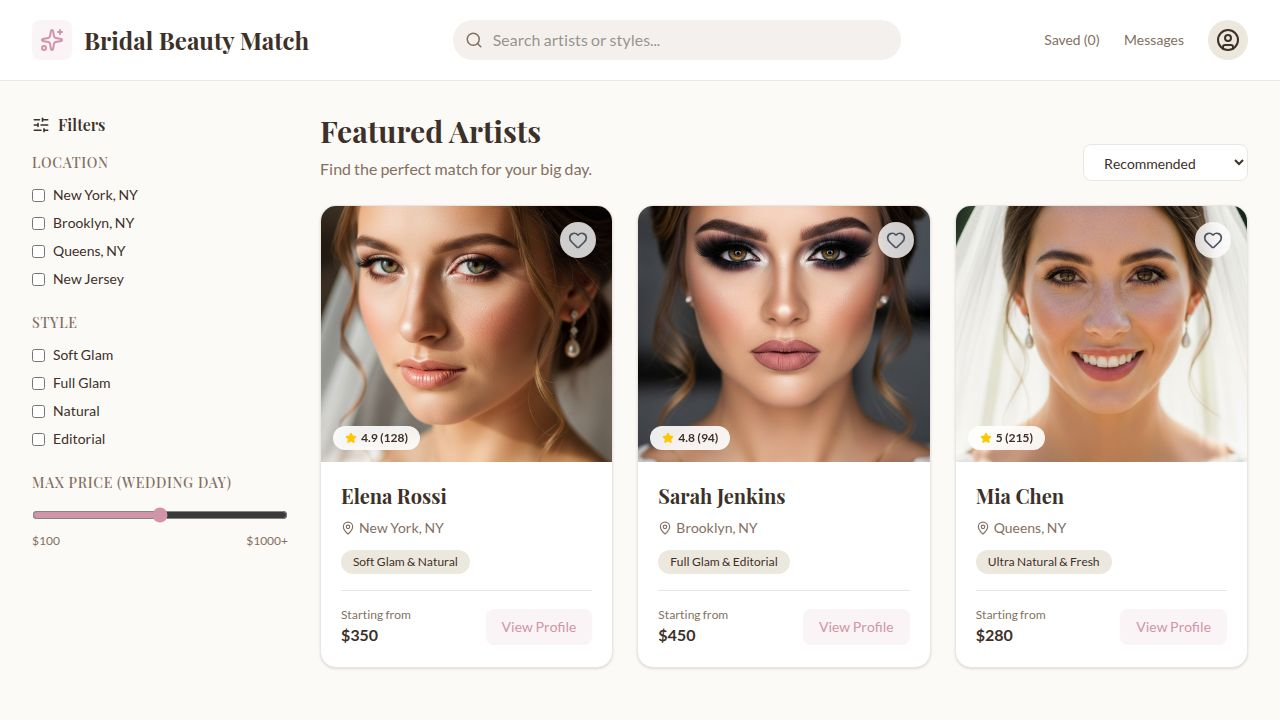
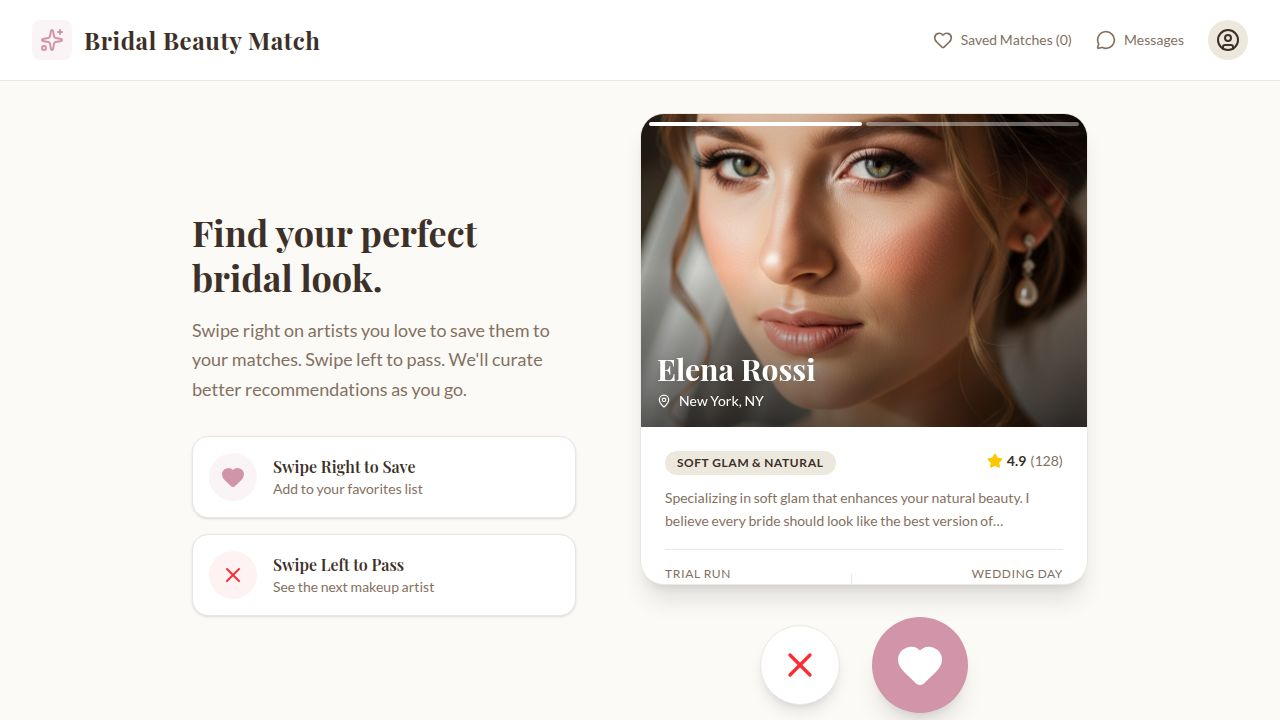
Update the app to allow swiping through artist profiles
Integrates a Tinder-style swipeable card interface into the desktop web app layout, allowing users to like or pass on artist profiles.

Replit-Commit-Author: Agent
Replit-Commit-Session-Id: 651a1fe6-17d0-4573-ae3e-e62761d08d62
Replit-Commit-Checkpoint-Type: full_checkpoint
Replit-Commit-Event-Id: e929e510-dd99-4e65-adc7-e96400682904
Replit-Commit-Screenshot-Url: https://storage.googleapis.com/screenshot-production-us-central1/077b519a-c17e-4a70-aa4a-50c78cc8e68b/651a1fe6-17d0-4573-ae3e-e62761d08d62/WXRn37N
Replit-Helium-Checkpoint-Created: true

diff --git a/client/src/pages/Home.tsx b/client/src/pages/Home.tsx
@@ -1,24 +1,24 @@
 import React, { useState } from 'react';
-import { Sparkles, MapPin, Star, Heart, Search, SlidersHorizontal, UserCircle, Calendar } from 'lucide-react';
-import { artists, Artist } from '../data/artists';
-import { AnimatePresence, motion } from 'framer-motion';
+import { AnimatePresence } from 'framer-motion';
+import { Sparkles, UserCircle, Settings2, X, Heart, MessageCircle } from 'lucide-react';
+import { SwipeCard } from '../components/SwipeCard';
+import { artists } from '../data/artists';
 
 export default function Home() {
-  const [selectedArtist, setSelectedArtist] = useState<Artist | null>(null);
+  const [deck, setDeck] = useState(artists);
+  const [matches, setMatches] = useState<string[]>([]);
   const [savedArtists, setSavedArtists] = useState<string[]>([]);
-  const [searchQuery, setSearchQuery] = useState('');
 
-  const toggleSave = (e: React.MouseEvent, id: string) => {
-    e.stopPropagation();
-    setSavedArtists(prev => 
-      prev.includes(id) ? prev.filter(a => a !== id) : [...prev, id]
-    );
+  const handleSwipeLeft = () => {
+    setDeck(prev => prev.slice(1));
   };
 
-  const filteredArtists = artists.filter(artist => 
-    artist.name.toLowerCase().includes(searchQuery.toLowerCase()) || 
-    artist.style.toLowerCase().includes(searchQuery.toLowerCase())
-  );
+  const handleSwipeRight = () => {
+    const currentArtist = deck[0];
+    setMatches(prev => [...prev, currentArtist.id]);
+    setSavedArtists(prev => [...prev, currentArtist.id]);
+    setDeck(prev => prev.slice(1));
+  };
 
   return (
     <div className="min-h-screen bg-background flex flex-col w-full">
@@ -29,248 +29,112 @@ export default function Home() {
             <div className="bg-primary/10 p-2 rounded-lg">
               <Sparkles className="text-primary" size={24} />
             </div>
-            <h1 className="text-2xl font-serif font-bold text-foreground">Bridal Beauty Match</h1>
+            <h1 className="text-2xl font-serif font-bold text-foreground tracking-wide">Bridal Beauty Match</h1>
           </div>
           
-          <div className="flex-1 max-w-md mx-8 relative hidden md:block">
-            <Search className="absolute left-3 top-1/2 -translate-y-1/2 text-muted-foreground" size={18} />
-            <input 
-              type="text" 
-              placeholder="Search artists or styles..." 
-              value={searchQuery}
-              onChange={(e) => setSearchQuery(e.target.value)}
-              className="w-full pl-10 pr-4 py-2 bg-muted rounded-full border-none focus:ring-2 focus:ring-primary/20 outline-none transition-all"
-            />
-          </div>
-
           <div className="flex items-center gap-6">
-            <button className="text-muted-foreground hover:text-foreground font-medium text-sm transition-colors">
-              Saved ({savedArtists.length})
+            <button className="flex items-center gap-2 text-muted-foreground hover:text-primary transition-colors font-medium text-sm group">
+              <Heart size={20} className={savedArtists.length > 0 ? "fill-primary text-primary" : ""} />
+              <span>Saved Matches ({savedArtists.length})</span>
             </button>
-            <button className="text-muted-foreground hover:text-foreground font-medium text-sm transition-colors">
-              Messages
+            <button className="flex items-center gap-2 text-muted-foreground hover:text-primary transition-colors font-medium text-sm">
+              <MessageCircle size={20} />
+              <span>Messages</span>
             </button>
-            <div className="w-10 h-10 bg-secondary rounded-full flex items-center justify-center cursor-pointer">
+            <div className="w-10 h-10 bg-secondary rounded-full flex items-center justify-center cursor-pointer hover:bg-secondary/80 transition-colors">
               <UserCircle className="text-secondary-foreground" size={24} />
             </div>
           </div>
         </div>
       </header>
 
-      {/* Main Content Area */}
-      <main className="flex-1 max-w-7xl mx-auto w-full px-8 py-8 flex gap-8">
-        {/* Left Sidebar - Filters */}
-        <aside className="w-64 hidden lg:block shrink-0">
-          <div className="sticky top-28 space-y-8">
-            <div>
-              <h3 className="font-semibold mb-4 flex items-center gap-2">
-                <SlidersHorizontal size={18} /> Filters
-              </h3>
-              
-              <div className="space-y-6">
-                <div>
-                  <h4 className="text-sm font-medium text-muted-foreground uppercase tracking-wider mb-3">Location</h4>
-                  <div className="space-y-2">
-                    {['New York, NY', 'Brooklyn, NY', 'Queens, NY', 'New Jersey'].map(loc => (
-                      <label key={loc} className="flex items-center gap-2 cursor-pointer">
-                        <input type="checkbox" className="rounded border-gray-300 text-primary focus:ring-primary" />
-                        <span className="text-sm">{loc}</span>
-                      </label>
-                    ))}
-                  </div>
-                </div>
-
-                <div>
-                  <h4 className="text-sm font-medium text-muted-foreground uppercase tracking-wider mb-3">Style</h4>
-                  <div className="space-y-2">
-                    {['Soft Glam', 'Full Glam', 'Natural', 'Editorial'].map(style => (
-                      <label key={style} className="flex items-center gap-2 cursor-pointer">
-                        <input type="checkbox" className="rounded border-gray-300 text-primary focus:ring-primary" />
-                        <span className="text-sm">{style}</span>
-                      </label>
-                    ))}
-                  </div>
-                </div>
-                
-                <div>
-                  <h4 className="text-sm font-medium text-muted-foreground uppercase tracking-wider mb-3">Max Price (Wedding Day)</h4>
-                  <input type="range" min="100" max="1000" className="w-full accent-primary" />
-                  <div className="flex justify-between text-xs text-muted-foreground mt-1">
-                    <span>$100</span>
-                    <span>$1000+</span>
-                  </div>
-                </div>
+      {/* Main Content Area - Swipe UI Centered */}
+      <main className="flex-1 w-full flex items-center justify-center p-8 bg-[radial-gradient(ellipse_at_top_right,_var(--tw-gradient-stops))] from-primary/5 via-background to-background">
+        
+        {/* Left column - Context/Empty State info (visible on larger screens) */}
+        <div className="hidden lg:flex flex-col max-w-sm mr-16">
+          <h2 className="text-4xl font-serif font-bold mb-4 leading-tight">Find your perfect bridal look.</h2>
+          <p className="text-lg text-muted-foreground mb-8 leading-relaxed">
+            Swipe right on artists you love to save them to your matches. 
+            Swipe left to pass. We'll curate better recommendations as you go.
+          </p>
+          
+          <div className="space-y-4">
+            <div className="flex items-center gap-4 p-4 bg-white rounded-2xl border border-border shadow-sm">
+              <div className="w-12 h-12 rounded-full bg-primary/10 flex items-center justify-center shrink-0">
+                <Heart size={24} className="text-primary fill-primary" />
+              </div>
+              <div>
+                <h4 className="font-semibold">Swipe Right to Save</h4>
+                <p className="text-sm text-muted-foreground">Add to your favorites list</p>
               </div>
             </div>
-          </div>
-        </aside>
-
-        {/* Right Content - Grid */}
-        <div className="flex-1">
-          <div className="flex justify-between items-end mb-6">
-            <div>
-              <h2 className="text-3xl font-serif font-bold mb-2">Featured Artists</h2>
-              <p className="text-muted-foreground">Find the perfect match for your big day.</p>
+            <div className="flex items-center gap-4 p-4 bg-white rounded-2xl border border-border shadow-sm">
+              <div className="w-12 h-12 rounded-full bg-red-50 flex items-center justify-center shrink-0">
+                <X size={24} className="text-red-500" />
+              </div>
+              <div>
+                <h4 className="font-semibold">Swipe Left to Pass</h4>
+                <p className="text-sm text-muted-foreground">See the next makeup artist</p>
+              </div>
             </div>
-            
-            <select className="bg-white border border-border rounded-lg px-4 py-2 text-sm focus:outline-none focus:ring-2 focus:ring-primary/20">
-              <option>Recommended</option>
-              <option>Highest Rated</option>
-              <option>Price: Low to High</option>
-              <option>Price: High to Low</option>
-            </select>
-          </div>
-
-          <div className="grid grid-cols-1 md:grid-cols-2 xl:grid-cols-3 gap-6">
-            {filteredArtists.map(artist => (
-              <motion.div 
-                key={artist.id}
-                layoutId={`card-${artist.id}`}
-                onClick={() => setSelectedArtist(artist)}
-                className="bg-white rounded-2xl overflow-hidden border border-border shadow-sm hover:shadow-xl transition-all cursor-pointer group flex flex-col"
-              >
-                <div className="relative h-64 overflow-hidden">
-                  <img 
-                    src={artist.images[0]} 
-                    alt={artist.name} 
-                    className="w-full h-full object-cover group-hover:scale-105 transition-transform duration-500"
-                  />
-                  <button 
-                    onClick={(e) => toggleSave(e, artist.id)}
-                    className="absolute top-4 right-4 p-2 rounded-full bg-white/80 backdrop-blur-sm hover:bg-white transition-colors"
-                  >
-                    <Heart 
-                      size={20} 
-                      className={savedArtists.includes(artist.id) ? "fill-primary text-primary" : "text-gray-600"} 
-                    />
-                  </button>
-                  <div className="absolute bottom-3 left-3 bg-white/90 backdrop-blur-sm px-3 py-1 rounded-full text-xs font-semibold flex items-center gap-1">
-                    <Star size={12} className="fill-yellow-400 text-yellow-400" />
-                    {artist.rating} ({artist.reviews})
-                  </div>
-                </div>
-                
-                <div className="p-5 flex-1 flex flex-col">
-                  <div className="flex justify-between items-start mb-2">
-                    <h3 className="text-xl font-serif font-bold group-hover:text-primary transition-colors">{artist.name}</h3>
-                  </div>
-                  
-                  <div className="flex items-center gap-1 text-sm text-muted-foreground mb-3">
-                    <MapPin size={14} />
-                    <span>{artist.location}</span>
-                  </div>
-                  
-                  <span className="inline-block px-3 py-1 bg-secondary text-secondary-foreground rounded-full text-xs font-medium self-start mb-4">
-                    {artist.style}
-                  </span>
-                  
-                  <div className="mt-auto pt-4 border-t border-border flex justify-between items-center">
-                    <div>
-                      <p className="text-xs text-muted-foreground">Starting from</p>
-                      <p className="font-semibold">${artist.weddingPrice}</p>
-                    </div>
-                    <button className="px-4 py-2 bg-primary/10 text-primary rounded-lg text-sm font-medium hover:bg-primary/20 transition-colors">
-                      View Profile
-                    </button>
-                  </div>
-                </div>
-              </motion.div>
-            ))}
           </div>
         </div>
-      </main>
 
-      {/* Detail Modal */}
-      <AnimatePresence>
-        {selectedArtist && (
-          <>
-            <motion.div 
-              initial={{ opacity: 0 }}
-              animate={{ opacity: 1 }}
-              exit={{ opacity: 0 }}
-              onClick={() => setSelectedArtist(null)}
-              className="fixed inset-0 bg-black/40 backdrop-blur-sm z-40"
-            />
-            <motion.div 
-              layoutId={`card-${selectedArtist.id}`}
-              className="fixed inset-y-4 right-4 w-full max-w-2xl bg-white rounded-3xl shadow-2xl z-50 overflow-hidden flex flex-col"
-            >
-              <div className="relative h-80 shrink-0">
-                <img src={selectedArtist.images[0]} alt={selectedArtist.name} className="w-full h-full object-cover" />
-                <button 
-                  onClick={() => setSelectedArtist(null)}
-                  className="absolute top-4 left-4 p-2 bg-white/80 backdrop-blur-md rounded-full hover:bg-white transition-colors"
-                >
-                  <MapPin className="hidden" /> {/* just to import map pin again if needed */}
-                  <svg width="24" height="24" viewBox="0 0 24 24" fill="none" stroke="currentColor" strokeWidth="2" strokeLinecap="round" strokeLinelinejoin="round"><path d="M18 6 6 18"/><path d="m6 6 12 12"/></svg>
-                </button>
-              </div>
-              
-              <div className="p-8 overflow-y-auto flex-1">
-                <div className="flex justify-between items-start mb-4">
-                  <div>
-                    <h2 className="text-4xl font-serif font-bold mb-2">{selectedArtist.name}</h2>
-                    <div className="flex items-center gap-4 text-muted-foreground">
-                      <span className="flex items-center gap-1"><MapPin size={16} /> {selectedArtist.location}</span>
-                      <span className="flex items-center gap-1"><Star size={16} className="fill-yellow-400 text-yellow-400" /> {selectedArtist.rating} ({selectedArtist.reviews} Reviews)</span>
-                    </div>
+        {/* Center - The Swipe Deck */}
+        <div className="relative w-full max-w-md h-[70vh] min-h-[600px] flex flex-col">
+          <div className="relative flex-1 w-full">
+            <AnimatePresence>
+              {deck.length > 0 ? (
+                deck.map((artist, index) => (
+                  <SwipeCard
+                    key={artist.id}
+                    artist={artist}
+                    active={index === 0}
+                    onSwipeLeft={handleSwipeLeft}
+                    onSwipeRight={handleSwipeRight}
+                  />
+                )).reverse() // Reverse so the first item is on top in DOM
+              ) : (
+                <div className="absolute inset-0 flex flex-col items-center justify-center text-center px-8 bg-white rounded-3xl shadow-xl border border-border">
+                  <div className="w-24 h-24 bg-primary/10 rounded-full flex items-center justify-center mb-6">
+                    <Sparkles className="text-primary" size={40} />
                   </div>
+                  <h2 className="text-3xl font-serif font-bold mb-3">You're all caught up!</h2>
+                  <p className="text-lg text-muted-foreground mb-8">We're searching for more amazing makeup artists in your area.</p>
                   <button 
-                    onClick={(e) => toggleSave(e, selectedArtist.id)}
-                    className="p-3 bg-secondary rounded-full hover:bg-secondary/80 transition-colors"
+                    onClick={() => setDeck(artists)}
+                    className="bg-primary text-primary-foreground px-8 py-4 rounded-full font-semibold text-lg hover:bg-primary/90 transition-all shadow-lg hover:shadow-primary/25 active:scale-95"
+                    data-testid="button-reset-deck"
                   >
-                    <Heart 
-                      size={24} 
-                      className={savedArtists.includes(selectedArtist.id) ? "fill-primary text-primary" : "text-gray-600"} 
-                    />
+                    Find More Artists
                   </button>
                 </div>
+              )}
+            </AnimatePresence>
+          </div>
 
-                <div className="mb-8">
-                  <span className="px-4 py-1.5 bg-primary/10 text-primary rounded-full text-sm font-semibold inline-block">
-                    {selectedArtist.style}
-                  </span>
-                </div>
-
-                <div className="mb-8">
-                  <h3 className="text-xl font-serif font-bold mb-3">About</h3>
-                  <p className="text-gray-600 leading-relaxed text-lg">{selectedArtist.bio}</p>
-                </div>
-
-                <div className="mb-8 grid grid-cols-2 gap-4">
-                  <div className="p-5 bg-secondary/50 rounded-2xl border border-border">
-                    <p className="text-sm text-muted-foreground uppercase tracking-wider mb-1">Trial Session</p>
-                    <p className="text-2xl font-semibold">${selectedArtist.trialPrice}</p>
-                    <p className="text-sm text-gray-500 mt-2">Includes consultation and full practice run</p>
-                  </div>
-                  <div className="p-5 bg-primary/5 rounded-2xl border border-primary/20">
-                    <p className="text-sm text-primary uppercase tracking-wider mb-1">Wedding Day</p>
-                    <p className="text-2xl font-semibold text-primary">${selectedArtist.weddingPrice}</p>
-                    <p className="text-sm text-primary/80 mt-2">On-location makeup for the bride</p>
-                  </div>
-                </div>
-
-                {selectedArtist.images.length > 1 && (
-                  <div>
-                    <h3 className="text-xl font-serif font-bold mb-4">Portfolio</h3>
-                    <div className="grid grid-cols-2 gap-4">
-                      {selectedArtist.images.slice(1).map((img, i) => (
-                        <img key={i} src={img} alt="Portfolio" className="w-full h-48 object-cover rounded-xl" />
-                      ))}
-                    </div>
-                  </div>
-                )}
-              </div>
-              
-              <div className="p-6 border-t border-border bg-white shrink-0">
-                <button className="w-full bg-primary text-white py-4 rounded-xl font-semibold text-lg hover:bg-primary/90 transition-colors shadow-lg shadow-primary/20 flex items-center justify-center gap-2">
-                  <Calendar size={20} /> Request Availability
-                </button>
-              </div>
-            </motion.div>
-          </>
-        )}
-      </AnimatePresence>
+          {/* Web Bottom Controls */}
+          {deck.length > 0 && (
+            <div className="mt-8 flex justify-center gap-8 items-center z-10">
+              <button 
+                onClick={handleSwipeLeft}
+                className="w-20 h-20 bg-white rounded-full flex items-center justify-center shadow-lg border border-border hover:bg-red-50 hover:border-red-200 transition-all transform active:scale-95 group"
+                data-testid="button-swipe-left"
+              >
+                <X size={40} className="text-red-500 group-hover:scale-110 transition-transform" />
+              </button>
+              <button 
+                onClick={handleSwipeRight}
+                className="w-24 h-24 bg-primary rounded-full flex items-center justify-center shadow-xl hover:bg-primary/90 hover:shadow-primary/30 transition-all transform active:scale-95 group"
+                data-testid="button-swipe-right"
+              >
+                <Heart size={48} className="text-white fill-white group-hover:scale-110 transition-transform" />
+              </button>
+            </div>
+          )}
+        </div>
+      </main>
     </div>
   );
 }
